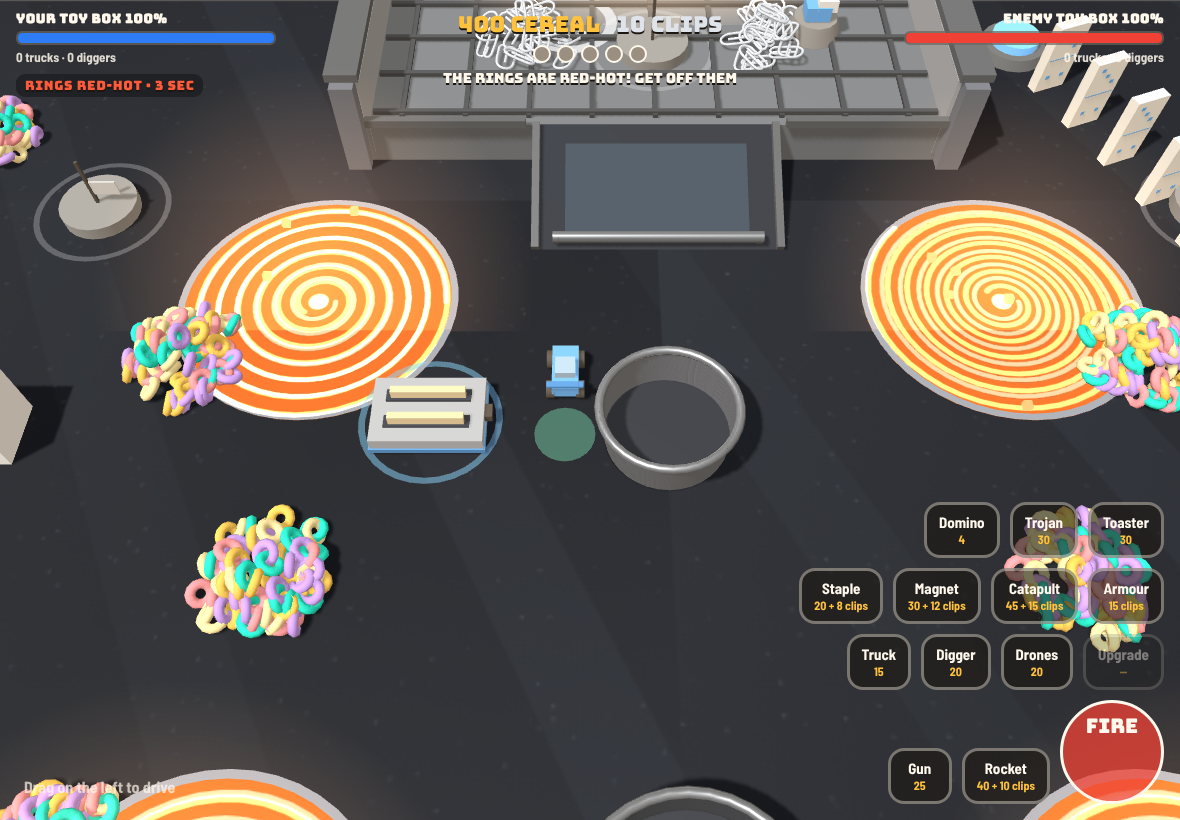
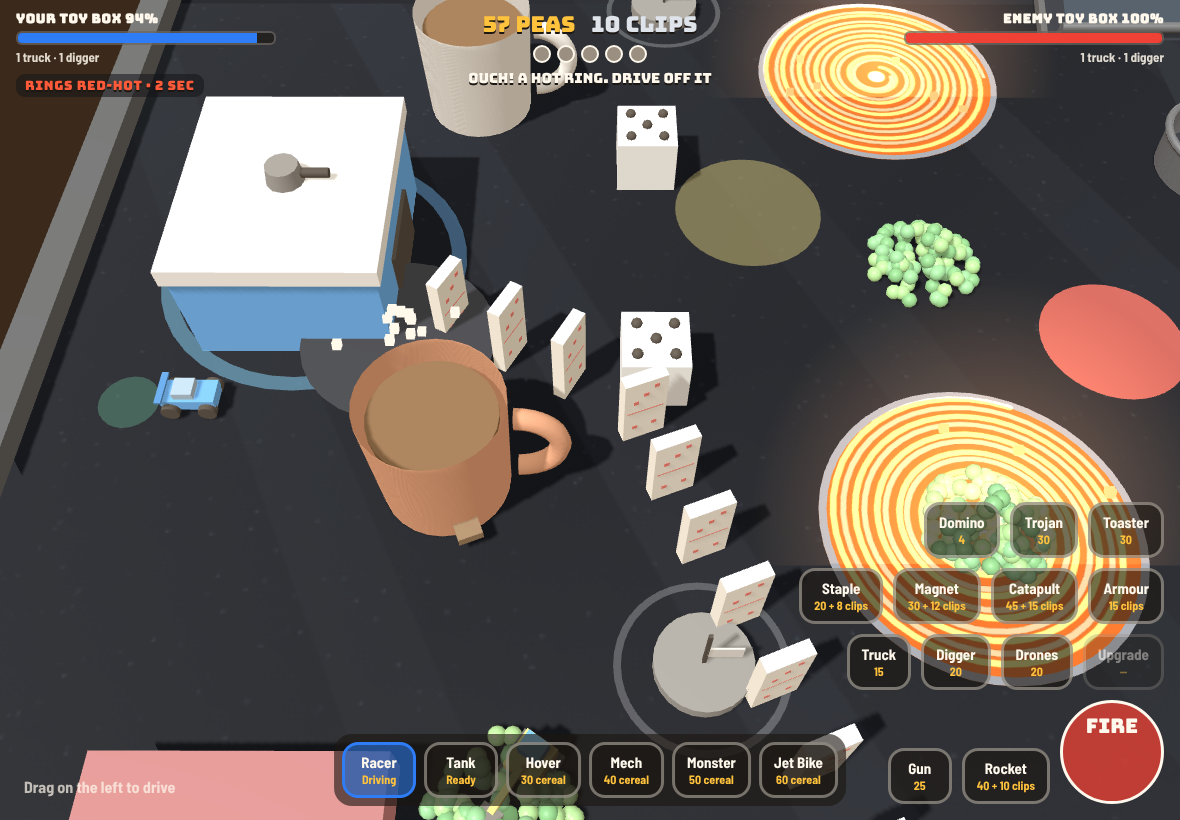
Baguettes & Ballistics: hob level feels like a hob: peas, sauce and oil, and the cook slams pans down
Claude-Session: https://claude.ai/code/session_0171oc5wTsPoimaja7RRfUcs

diff --git a/games/baguettes-and-ballistics/index.html b/games/baguettes-and-ballistics/index.html
@@ -1116,7 +1116,7 @@ const LEVELS = [
   },
   {
     name: 'Hob and oven', time: 'afternoon', tableColor: 0xffffff, tableTex: 'hob',
-    blurb: 'Dinner is cooking, and the table is a black glass hob. Its four rings heat up on a cycle: cool, then glowing orange, then red-hot. Red-hot burns anything on it. At the back, the oven door is down as a ramp to a high ledge. At 3:00 the Toaster Tank rolls out. The enemy rushes in big waves.',
+    blurb: 'Dinner is cooking, and the table is a black glass hob. Its four rings heat up on a cycle: cool, then glowing orange, then red-hot. Red-hot burns anything on it. At the back, the oven door is down as a ramp to a high ledge. At 3:00 the Toaster Tank rolls out. The enemy rushes in big waves. Watch for the cook: a shadow means a hot pan is coming down. Red sauce is sticky, yellow oil is slippery.',
     tips: [
       '<b>Rings:</b> cool for 10 seconds, orange for 3, red-hot for 6. Stay off them when they glow. The clock is top left',
       '<b>Oven:</b> drive up the door ramp. The ledge has the middle cap and the clips. Turrets up there reach 30% further',
@@ -1140,24 +1140,29 @@ const LEVELS = [
       ]),
     ],
     erasers: [],
-    patches: [],
+    // Sticky tomato sauce slows you right down; oil makes you slide.
+    patches: [
+      { x: -11, z: 6, r: 4.5, kind: 'sauce' }, { x: 11, z: 6, r: 4.5, kind: 'sauce' },
+      { x: -33, z: -5, r: 5, kind: 'oil' }, { x: 33, z: -5, r: 5, kind: 'oil' },
+      { x: 0, z: 36, r: 4, kind: 'sauce' },
+    ],
     decor: hobDecor,
     hob: { rings: [[-22, -19, 9], [22, -19, 9], [-22, 19, 9], [22, 19, 9]], cool: 10, warn: 3, hot: 6, safe: 5, dmg: 12, turretDmg: 6, start: -6 },
     oven: { x0: -20, x1: 20, z0: -48, z1: -32, rw: 8, rz1: -23.5 },
     toaster: true,
     outposts: [[-38, -27], [-38, 27], [0, -40, LEDGE_H], [38, -27], [38, 27]],   // the middle cap sits on the oven ledge
+    // Harry: "why is there cereal all over the thing?" On the hob it's spilled frozen peas, and fewer piles.
+    pileLook: 'peas', cerealName: 'peas',
+    cook: true, // the cook puts a hot pan down on a random spot every so often
     piles: [
       ...mirrored([
-        (s) => [s * 22, 0, 170],          // between the rings: safe
-        (s) => [s * 29.5, 14.5, 150],     // on the edge of the front ring
-        (s) => [s * 29.5, -14.5, 150],    // on the edge of the back ring
-        (s) => [s * 22, 19, 200],         // dead centre of the front ring: rich, and only safe while it is cool
-        (s) => [s * 48, -34, 120],
-        (s) => [s * 48, 34, 120],
+        (s) => [s * 22, 0, 220],          // between the rings: safe
+        (s) => [s * 22, 19, 260],         // dead centre of the front ring: rich, and only safe while it is cool
+        (s) => [s * 48, 34, 150],
       ]),
       [-9, -41, 130, 'clips'], [9, -41, 130, 'clips'],                            // paperclips in the oven
     ],
-    refill: [{ x: -22, z: 0, rate: 0.3 }, { x: 22, z: 0, rate: 0.3 }, { x: -22, z: 19, rate: 0.45 }, { x: 22, z: 19, rate: 0.45 }, { x: -9, z: -41, rate: 0.2 }, { x: 9, z: -41, rate: 0.2 }],
+    refill: [{ x: -22, z: 0, rate: 0.4 }, { x: 22, z: 0, rate: 0.4 }, { x: -22, z: 19, rate: 0.55 }, { x: 22, z: 19, rate: 0.55 }, { x: -9, z: -41, rate: 0.2 }, { x: 9, z: -41, rate: 0.2 }],
     start: { cereal: 40, clips: 10, unlocked: ['racer', 'tank'] },
     resources: ['cereal', 'clips'],
     turretClips: { rocket: 10, staple: 8, magnet: 12, catapult: 15 },
@@ -1186,7 +1191,11 @@ function buildLevel(L) {
   for (const e of L.erasers) makeEraser(...e);
   for (const p of L.patches) {
     patches.push(p);
-    const m = mesh(new THREE.CircleGeometry(p.r, 40), p.kind === 'juice' ? mat(p.color || 0xff9f1c, { transparent: true, opacity: 0.7, roughness: 0.1, metalness: 0.2 }) : mat(0xe8c89a, { transparent: true, opacity: 0.55 }), p.x, 0.03, p.z);
+    const look = p.kind === 'juice' ? mat(p.color || 0xff9f1c, { transparent: true, opacity: 0.7, roughness: 0.1, metalness: 0.2 })
+      : p.kind === 'sauce' ? mat(0xb3261e, { transparent: true, opacity: 0.85, roughness: 0.25 })
+      : p.kind === 'oil' ? mat(0xe8c547, { transparent: true, opacity: 0.45, roughness: 0.02, metalness: 0.4 })
+      : mat(0xe8c89a, { transparent: true, opacity: 0.55 });
+    const m = mesh(new THREE.CircleGeometry(p.r, 40), look, p.x, 0.03, p.z);
     m.rotation.x = -Math.PI / 2; m.castShadow = false;
   }
   if (L.decor) L.decor();
@@ -1511,7 +1520,10 @@ function loopsGroup(x, z, n, radius, height) {
   for (let i = 0; i < n; i++) {
     const a = Math.random() * Math.PI * 2, r = Math.sqrt(Math.random()) * radius;
     const y = 0.3 + (1 - r / radius) * height * Math.random();
-    const loop = mesh(shared('loop', () => new THREE.TorusGeometry(0.55, 0.28, 6, 12)), shared(`loopMat:${i % LOOP_COLORS.length}`, () => mat(LOOP_COLORS[i % LOOP_COLORS.length])), Math.cos(a) * r, y, Math.sin(a) * r, g);
+    const peas = state.level?.pileLook === 'peas'; // the hob level: frozen peas instead of cereal loops
+    const loop = peas
+      ? mesh(shared('pea', () => new THREE.SphereGeometry(0.5, 8, 6)), shared(`peaMat:${i % 3}`, () => mat([0x5cb85c, 0x7ccf5a, 0x4a9e46][i % 3], { roughness: 0.35 })), Math.cos(a) * r, y, Math.sin(a) * r, g)
+      : mesh(shared('loop', () => new THREE.TorusGeometry(0.55, 0.28, 6, 12)), shared(`loopMat:${i % LOOP_COLORS.length}`, () => mat(LOOP_COLORS[i % LOOP_COLORS.length])), Math.cos(a) * r, y, Math.sin(a) * r, g);
     loop.rotation.set(Math.PI / 2 + (Math.random() - 0.5) * 1.2, Math.random() * 3, 0);
   }
   g.position.set(x, 0, z);
@@ -1836,6 +1848,7 @@ function reset() {
   for (const f of flares) scene.remove(f.g);
   flares.length = 0;
   for (const t of toasters) { scene.remove(t.g); disposeTree(t.g); }
+  if (state.cook) { if (state.cook.warn) scene.remove(state.cook.warn.sh); for (const pan of state.cook.pans) scene.remove(pan.g); state.cook = null; }
   toasters.length = 0;
   for (const t of traps) scene.remove(t.mesh); for (const m of marbles) scene.remove(m.mesh);
   traps.length = marbles.length = 0;
@@ -2015,7 +2028,8 @@ const wrap = (a) => Math.atan2(Math.sin(a), Math.cos(a));
 let toastTimer = 0;
 let bannerTimer = 0;
 function banner(big, small) { $('banner').innerHTML = `${big}<small>${small}</small>`; $('banner').hidden = false; bannerTimer = 4; }
-function toast(text) { $('toast').textContent = text; toastTimer = 2.2; }
+function toast(text) {
+  if (state.level?.cerealName) text = String(text).replace(/\bcereal\b/g, state.level.cerealName); $('toast').textContent = text; toastTimer = 2.2; }
 
 function nearestEnemy(from, range, team = from.team) {
   let best = null, bd = range * range;
@@ -2090,7 +2104,8 @@ function drive(e, dx, dz, throttle, dt, stats) {
   let grip = stats.grip, top = stats.speed;
   if (e.kind === 'player' && state.buff?.[BLUE]?.kind === 'turbo') top *= 1.45; // gumball turbo
   if (e.spin > 0) grip *= 0.15; // spun out on butter or by a marble
-  if (patch === 'juice' && !stats.floats) grip *= 0.12;
+  if ((patch === 'juice' || patch === 'oil') && !stats.floats) grip *= 0.12; // juice and cooking oil: slide
+  if (patch === 'sauce' && !stats.floats) top *= 0.35; // tomato sauce: sticky
   if (patch === 'cereal' && !stats.floats && !stats.rough) top *= 0.45;
   // Split velocity into forward and sideways; grip eats the sideways part (that's the drift).
   const fx = Math.cos(e.heading), fz = Math.sin(e.heading);
@@ -2364,6 +2379,78 @@ function dominoesUpdate(dt) {
         }
       }
       for (const e of entities) if (e.team !== d.team && e.hp > 0 && e.kind !== 'base' && Math.hypot(tx - e.x, tz - e.z) < 2.5) hurt(e, 60, d.team, null);
+    }
+  }
+}
+
+// ---------- The Cook (hob level): a giant shadow, then a hot frying pan slams down on a random spot ----------
+// Every 22–30 s. Sometimes it lands by a toy box (either side). It flattens what's under it, then sits there
+// as a hot wall for 15 s before the cook lifts it away. Warned by a growing shadow for 2.5 s.
+const COOK = { every: [22, 30], warn: 2.5, stay: 15, r: 6, dmgUnit: 70, dmgTurret: 140, dmgBox: 120 };
+function cookPick() {
+  for (let tries = 0; tries < 20; tries++) {
+    let x, z;
+    if (Math.random() < 0.35) { const box = state.bases[Math.random() < 0.5 ? BLUE : RED]; x = box.x - Math.sign(box.x) * (6 + Math.random() * 6); z = box.z + (Math.random() - 0.5) * 20; }
+    else { x = (Math.random() - 0.5) * (W - 24); z = (Math.random() - 0.5) * (D - 24); }
+    if (state.ledge && ledgeLift({ x, z }) > 0) continue; // not inside the oven
+    if (obstacles.some((o) => o.kind !== 'turret' && o.kind !== 'base' && Math.abs(x - o.x) < o.w / 2 + 3 && Math.abs(z - o.z) < o.d / 2 + 3)) continue;
+    return { x, z };
+  }
+  return null;
+}
+function cookUpdate(dt) {
+  if (!state.level.cook || state.phase === 'race') return;
+  const c = state.cook ||= { next: 20, warn: null, pans: [] };
+  c.next -= dt;
+  if (!c.warn && c.next <= 0) {
+    const spot = cookPick();
+    c.next = COOK.every[0] + Math.random() * (COOK.every[1] - COOK.every[0]);
+    if (spot) {
+      const sh = new THREE.Mesh(shared('cookShadow', () => new THREE.CircleGeometry(COOK.r, 32)), new THREE.MeshBasicMaterial({ color: 0x000000, transparent: true, opacity: 0.1, depthWrite: false }));
+      sh.rotation.x = -Math.PI / 2; sh.position.set(spot.x, 0.06, spot.z); scene.add(sh);
+      c.warn = { ...spot, t: COOK.warn, sh };
+      if (dist2(spot, state.player) < 60 * 60) toast('The cook is putting a pan down! Look for the shadow');
+    }
+  }
+  if (c.warn) {
+    const w = c.warn; w.t -= dt;
+    const k = 1 - w.t / COOK.warn; w.sh.scale.setScalar(0.4 + k * 0.6); w.sh.material.opacity = 0.1 + k * 0.45;
+    if (w.t <= 0) {
+      scene.remove(w.sh); w.sh.material.dispose(); c.warn = null;
+      // The pan: black, with a handle, dropping from above.
+      const g = new THREE.Group();
+      mesh(shared('panBody', () => new THREE.CylinderGeometry(COOK.r, COOK.r - 0.5, 1.3, 28)), shared('panMat', () => mat(0x1d1e22, { metalness: 0.5, roughness: 0.35 })), 0, 0.65, 0, g);
+      mesh(shared('panHandle', () => new THREE.BoxGeometry(9, 0.6, 1.4)), shared('panHandleMat', () => mat(0x5a3b22)), COOK.r + 4, 1.1, 0, g);
+      g.rotation.y = Math.random() * Math.PI * 2; g.position.set(w.x, 25, w.z); scene.add(g);
+      const ob = { x: w.x, z: w.z, w: COOK.r * 1.8, d: COOK.r * 1.8, h: 1.3, kind: 'pan' };
+      const pan = { x: w.x, z: w.z, g, ob, t: 0, life: COOK.stay, landed: false };
+      c.pans.push(pan);
+    }
+  }
+  for (let i = c.pans.length - 1; i >= 0; i--) {
+    const pan = c.pans[i]; pan.t += dt; pan.life -= dt;
+    if (!pan.landed) {
+      pan.g.position.y = Math.max(0, 25 - pan.t * 100);
+      if (pan.g.position.y <= 0) {
+        pan.landed = true;
+        // SLAM: flatten what's under it.
+        for (const e of entities) {
+          if (e.hp <= 0 || (e.kind === 'player' && !e.alive) || e.kind === 'boss') continue;
+          const reach = COOK.r + (e.kind === 'base' ? e.r * 0.6 : (e.r || 1) * 0.5);
+          if (dist2(e, pan) > reach * reach) continue;
+          if (e.kind === 'base') hurt(e, COOK.dmgBox, 1 - e.team, { vsBase: 1 });
+          else if (e.kind === 'turret') hurt(e, COOK.dmgTurret, 1 - e.team, null);
+          else { hurt(e, COOK.dmgUnit, 1 - e.team, null); const d = Math.max(1, Math.sqrt(dist2(e, pan))); e.vx = (e.vx || 0) + (e.x - pan.x) / d * 30; e.vz = (e.vz || 0) + (e.z - pan.z) / d * 30; }
+        }
+        burst(pan.x, pan.z, 0xfff3d6, 18, 14, 1); sfx('cannon');
+        if (dist2(pan, state.player) < 3600) state.shake = Math.min(1.6, (state.shake || 0) + 0.9);
+        obstacles.push(pan.ob); navDirty = true;
+      }
+    } else if (pan.life <= 1) pan.g.position.y = (1 - pan.life) * 25; // lifted away
+    if (pan.life <= 0) {
+      scene.remove(pan.g);
+      const k = obstacles.indexOf(pan.ob); if (k >= 0) { obstacles.splice(k, 1); navDirty = true; }
+      c.pans.splice(i, 1);
     }
   }
 }
@@ -2717,7 +2804,7 @@ function renderGarage() {
   $('garage').innerHTML = Object.entries(VEHICLES).map(([k, v]) => {
     const owned = state.unlocked.has(k);
     const vc = vehCost(k);
-    return `<button data-v="${k}" class="${p.vehicle === k ? 'cur' : ''}">${v.name}<small>${owned ? (p.vehicle === k ? 'Driving' : 'Ready') : `${vc.c} cereal${vc.p ? ` + ${vc.p} ${secondName()}` : ''}`}</small></button>`;
+    return `<button data-v="${k}" class="${p.vehicle === k ? 'cur' : ''}">${v.name}<small>${owned ? (p.vehicle === k ? 'Driving' : 'Ready') : `${vc.c} ${state.level.cerealName || 'cereal'}${vc.p ? ` + ${vc.p} ${secondName()}` : ''}`}</small></button>`;
   }).join('');
   for (const b of $('garage').querySelectorAll('button')) b.addEventListener('pointerdown', (e) => { e.preventDefault(); chooseVehicle(b.dataset.v); });
 }
@@ -3915,12 +4002,13 @@ function update(dt) {
   rushUpdate();
   enemyBoats();
   enemyTricks();
+  cookUpdate(dt);
   runsUpdate(dt);
   gumballUpdate(dt);
   itemsUpdate(dt);
 
   // HUD
-  $('cereal').textContent = `${Math.floor(state.cereal[BLUE])} cereal`;
+  $('cereal').textContent = `${Math.floor(state.cereal[BLUE])} ${state.level.cerealName || 'cereal'}`;
   $('clipsHud').hidden = state.level.resources.length < 2;
   $('clipsHud').textContent = `${Math.floor(state.clips[BLUE])} ${secondName()}`;
   $('clipsHud').classList.toggle('batt', secondName() === 'batteries');

diff --git a/games/baguettes-and-ballistics/HANDOVER.md b/games/baguettes-and-ballistics/HANDOVER.md
@@ -581,3 +581,18 @@ dominoes, run buttons, the gumball, toasters) with `disposeTree`. Switching
 levels 10 times used to climb from about 500 to 4,000+ shapes in memory; it
 now stays at about 240–370.
 
+## Hob round two (2 Nov 2026; Harry: "why is there cereal all over the thing? Shouldn't there be sticky spots? Somebody cooking, putting the pan down on random bases?")
+
+- **Frozen peas, not cereal:** `LEVELS[4].pileLook = 'peas'` draws piles and
+  spills as green peas, and `cerealName: 'peas'` renames the HUD counter,
+  toasts and garage prices on this level (the stock is still `state.cereal`).
+  Fewer piles: 6 pea piles (was 12), refilling a little faster.
+- **Sticky and slippery spots:** new patch kinds `sauce` (red, top speed ×0.35)
+  and `oil` (yellow, slides like juice). Tested: 8 speed in sauce against 24
+  on clean glass.
+- **The Cook** (`LEVELS[4].cook`, `COOK`, `cookPick`, `cookUpdate`): every 22–30 s
+  a shadow grows on a random spot for 2.5 s (a third of the time by a toy box,
+  either side), then a frying pan slams down: 70 to cars under it (and shoves
+  them), 140 to turrets, 120 to a toy box. It stays as a wall for 15 s, then is
+  lifted away. Never inside the oven.
+
